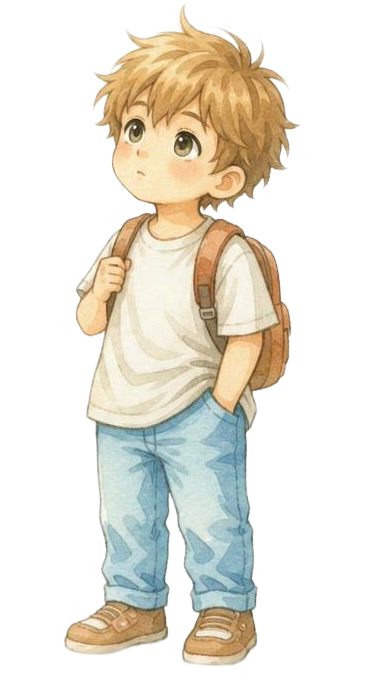
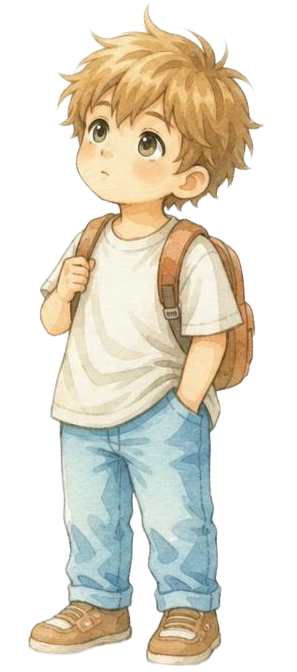
Fonts

diff --git a/style.css b/style.css
@@ -14,6 +14,56 @@
    ===================================================================== */
 
 /* ---------------------------------------------------------------------
+   0. FONTS (self-hosted — see index.html <head> for the reasoning)
+   Dela Gothic One ships one real weight (400) — do not request 700/800/900
+   against it anywhere; the browser will synthetic-bold a single-weight
+   face and it looks blobby/wrong on an already-heavy display font. Every
+   heading rule below has been set to font-weight: 400 for this reason.
+--------------------------------------------------------------------- */
+@font-face {
+  font-family: 'Dela Gothic One';
+  src: url('assets/fonts/dela-gothic-one-cyrillic-400-normal.woff2') format('woff2');
+  font-weight: 400;
+  font-style: normal;
+  font-display: swap;
+}
+@font-face {
+  font-family: 'Nunito Sans';
+  src: url('assets/fonts/nunito-sans-cyrillic-300-normal.woff2') format('woff2');
+  font-weight: 300;
+  font-style: normal;
+  font-display: swap;
+}
+@font-face {
+  font-family: 'Nunito Sans';
+  src: url('assets/fonts/nunito-sans-cyrillic-400-normal.woff2') format('woff2');
+  font-weight: 400;
+  font-style: normal;
+  font-display: swap;
+}
+@font-face {
+  font-family: 'Nunito Sans';
+  src: url('assets/fonts/nunito-sans-cyrillic-600-normal.woff2') format('woff2');
+  font-weight: 600;
+  font-style: normal;
+  font-display: swap;
+}
+@font-face {
+  font-family: 'Nunito Sans';
+  src: url('assets/fonts/nunito-sans-cyrillic-700-normal.woff2') format('woff2');
+  font-weight: 700;
+  font-style: normal;
+  font-display: swap;
+}
+@font-face {
+  font-family: 'Nunito Sans';
+  src: url('assets/fonts/nunito-sans-cyrillic-800-normal.woff2') format('woff2');
+  font-weight: 800;
+  font-style: normal;
+  font-display: swap;
+}
+
+/* ---------------------------------------------------------------------
    1. DESIGN TOKENS
 --------------------------------------------------------------------- */
 :root {
@@ -60,7 +110,7 @@
     section's rules assumed — see .how-it-works below. */
 
   /* --- Type --- */
-  --font-display: 'Baloo 2', system-ui, sans-serif;  /* rounded, playful — headlines */
+  --font-display: 'Dela Gothic One', system-ui, sans-serif;  /* thick, chunky poster face — headlines. Single weight (400) only. */
   --font-body: 'Nunito Sans', system-ui, sans-serif; /* warm, friendly — body/UI text */
 
   /* --- Type scale (fluid, mobile-first) --- */
@@ -117,12 +167,15 @@ body {
   background: var(--color-surface-white);
   color: var(--color-text-dark);
   font-family: var(--font-body);
+  font-weight: 300; /* light body text, per typography direction — labels,
+    citations, and buttons override this explicitly where they need more
+    weight; this is the paragraph-text default. */
   line-height: 1.5;
   -webkit-font-smoothing: antialiased;
   overflow-x: hidden; /* clouds intentionally travel toward/past the viewport edge */
 }
 
-h1, h2, h3 { font-family: var(--font-display); margin: 0; }
+h1, h2, h3 { font-family: var(--font-display); font-weight: 400; margin: 0; }
 p { margin: 0; }
 ul { list-style: none; margin: 0; padding: 0; }
 button { font-family: inherit; }
@@ -282,7 +335,7 @@ input:focus-visible {
 
 .hero__title {
   font-size: var(--font-size-h1);
-  font-weight: 800;
+  font-weight: 400; /* Dela Gothic One has one real weight */
   line-height: 1.05;
   color: var(--color-hero-text);
 }
@@ -345,7 +398,7 @@ input:focus-visible {
   padding: 1rem 1.5rem;
   font-family: var(--font-display);
   font-size: 1rem;
-  font-weight: 700;
+  font-weight: 400; /* Dela Gothic One has one real weight */
   color: var(--color-text-dark);
   background: var(--color-neda);
   border: none;
@@ -574,7 +627,7 @@ input:focus-visible {
 
 .brave-card__name {
   font-family: var(--font-display);
-  font-weight: 700;
+  font-weight: 400; /* Dela Gothic One has one real weight */
   font-size: 1rem;
   text-transform: uppercase;
   letter-spacing: 0.03em;
@@ -761,14 +814,14 @@ input:focus-visible {
 
 .problem__heading {
   font-size: var(--font-size-h2);
-  font-weight: 700;
+  font-weight: 400; /* Dela Gothic One has one real weight */
 }
 
 /* Accent-colored, oversized quotation marks — turns the heading into a
    visible pull-quote rather than reading as an unmarked headline. */
 .problem__quote-mark {
   font-size: 1.4em;
-  font-weight: 800;
+  font-weight: 400; /* inherits Dela Gothic One from parent h2 — one real weight */
   color: var(--color-neda);
   line-height: 0;
   vertical-align: -0.08em;
@@ -804,7 +857,7 @@ input:focus-visible {
 
 .teaches__heading {
   font-size: var(--font-size-h2);
-  font-weight: 700;
+  font-weight: 400; /* Dela Gothic One has one real weight */
   text-align: center;
 }
 
@@ -972,7 +1025,7 @@ input:focus-visible {
   padding: 1rem 2rem;
   font-family: var(--font-display);
   font-size: 1.05rem;
-  font-weight: 700;
+  font-weight: 400; /* Dela Gothic One has one real weight */
   color: var(--color-text-dark);
   background: var(--color-neda);
   border-radius: var(--radius-input);
@@ -1002,7 +1055,7 @@ input:focus-visible {
 
 .how-it-works__heading {
   font-size: var(--font-size-h2);
-  font-weight: 700;
+  font-weight: 400; /* Dela Gothic One has one real weight */
   text-align: center;
   margin-bottom: var(--space-4);
 }
@@ -1039,7 +1092,7 @@ input:focus-visible {
 .how-it-works__number {
   font-family: var(--font-display);
   font-size: 1.5rem;
-  font-weight: 800;
+  font-weight: 400; /* Dela Gothic One has one real weight */
   width: 2.5rem;
   height: 2.5rem;
   display: flex;
@@ -1066,7 +1119,7 @@ input:focus-visible {
   margin: 0;
   font-family: var(--font-display);
   font-size: 1.05rem;
-  font-weight: 800;
+  font-weight: 400; /* Dela Gothic One has one real weight */
   text-transform: uppercase;
   letter-spacing: 0.02em;
   color: var(--color-zaki);
@@ -1191,7 +1244,7 @@ input:focus-visible {
 
 .testimonials__heading {
   font-size: var(--font-size-h2);
-  font-weight: 700;
+  font-weight: 400; /* Dela Gothic One has one real weight */
   text-align: center;
 }
 
@@ -1243,7 +1296,7 @@ input:focus-visible {
   font-family: var(--font-display);
   font-size: 5rem;
   line-height: 0.6;
-  font-weight: 700;
+  font-weight: 400; /* Dela Gothic One has one real weight */
   color: var(--slide-accent, var(--color-vesta));
   display: block;
 }
@@ -1252,7 +1305,13 @@ input:focus-visible {
 
 .testimonials__quote p {
   margin: 0;
-  font-family: var(--font-display);
+  font-family: var(--font-body); /* deviation from a literal display-font
+    swap — Dela Gothic One is a single-weight poster face; a full sentence
+    set in it at h2 size reads as shouty, not warm. Body font at 600
+    keeps the quote visually prominent while staying readable. Flagging
+    since this wasn't explicitly requested — happy to revert if you'd
+    rather the whole quote stay in the display face. */
+  font-weight: 600;
   font-size: var(--font-size-h2);
   line-height: 1.35;
   color: var(--color-text-dark);
@@ -1356,7 +1415,7 @@ input:focus-visible {
 
 .desired-state__heading {
   font-size: var(--font-size-h2);
-  font-weight: 700;
+  font-weight: 400; /* Dela Gothic One has one real weight */
   text-align: center;
 }
 

diff --git a/index.html b/index.html
@@ -11,7 +11,16 @@
        design system brief. -->
   <link rel="preconnect" href="https://fonts.googleapis.com" />
   <link rel="preconnect" href="https://fonts.gstatic.com" crossorigin />
-  <link href="https://fonts.googleapis.com/css2?family=Baloo+2:wght@500;600;700;800&family=Nunito+Sans:wght@400;600;700;800&display=swap" rel="stylesheet" />
+  <!-- Fonts are self-hosted from /assets/fonts (see @font-face rules at the
+       top of style.css) rather than loaded from Google Fonts' CDN.
+       Meaningful reason for this one: this is an EU/Bulgaria-facing site
+       collecting emails, and loading fonts.gstatic.com directly sends
+       every visitor's IP to Google before they've consented to
+       anything — this is the exact pattern a 2022 Munich court ruling
+       found to violate GDPR (no consent basis for that third-party
+       transfer). Self-hosting sidesteps the question entirely, plus
+       drops two DNS/TLS round-trips. The preconnect tags above are now
+       unused leftovers — harmless if left in, but fine to delete. -->
 
   <link rel="stylesheet" href="style.css" />
 </head>

diff --git a/SDD.md b/SDD.md
@@ -148,7 +148,13 @@ H2: "Записването е отворено". Same form as the hero section 
 
 ### Design System
 
-- Fonts: Baloo 2 (display/headings) + Nunito Sans (body/UI) — not specified in the original brief, chosen to fit "bright, colorful, kids-friendly."
+- **Typography — Dela Gothic One (display/headings) + Nunito Sans (body/UI).** Not in the original brief; chosen after a dedicated typography pass (see below), replacing the initial Baloo 2 choice.
+  - **Fonts are self-hosted** from `/assets/fonts` via `@font-face` in `style.css`, not loaded from Google Fonts' CDN. Deliberate choice, not a default: this is an EU/Bulgaria-facing site collecting emails, and loading `fonts.gstatic.com` directly sends every visitor's IP to Google before any consent — the exact pattern a 2022 Munich court ruling found to violate GDPR. Self-hosting sidesteps it entirely and drops two DNS/TLS round-trips as a bonus. `index.html`'s `<head>` still has the (now-unused) `preconnect` tags for Google Fonts — harmless, safe to delete later.
+  - **Baloo 2 was dropped for a real reason, not just taste**: verified directly (pulled the actual font package, not just its Google Fonts description page) that Baloo 2 ships zero Cyrillic glyphs — only Devanagari, Latin, Latin Extended, and Vietnamese. Every Bulgarian heading was silently falling back to the browser's system font this whole time. Lesson applied going forward: check actual subset/glyph coverage in the font files themselves before adopting any typeface for this project, not just a description page — a font can be "on Google Fonts" and still not cover the language you need.
+  - **Dela Gothic One has exactly one real weight (400, static, not variable).** Every heading/display-font rule in `style.css` is pinned to `font-weight: 400` for this reason — requesting 700/800/900 against a single-weight face makes the browser synthetic-bold it, which looks blobby on an already-heavy display font. If you ever want a lighter or heavier display option later, that requires a different typeface, not a different weight of this one.
+  - **One deviation from a literal 1:1 swap, flagged for your review**: the Testimonials quote sentence itself (`.testimonials__quote p`) is set in Nunito Sans (weight 600), not Dela Gothic One, even though it's inside an otherwise Dela-Gothic-One-only section. Reasoning: Dela Gothic One is a poster/headline face meant for a few words at a time; a full sentence set in it at `--font-size-h2` read as shouty rather than warm when tested. The giant opening/closing quotation-mark glyphs around it stayed in Dela Gothic One (400) since those are just 1–2 characters, which is exactly what the face is good at. Happy to revert this specific choice if you'd rather the whole quote block match.
+  - Body text default weight is now 300 (light), per your original "thick childlike titles / light non-serif paragraphs" direction — explicit `font-weight` overrides (buttons, labels, citations) are unaffected since they set their own weight already.
+  - **Cyrillic-quality caveat, for the record**: a specialist Cyrillic type-review source (type.today) flags Dela Gothic One's Cyrillic extension as technically complete but lower design quality than its Latin set — likely subtle stroke/proportion inconsistencies a trained eye would catch. Nothing looked broken in our own rendered tests (see the headline/pairing screenshots from this pass), so treating this as a "know before you scale up" note rather than a blocker.
 - Brand colors: Заки `#725598`, Вихрен `#F68044`, Неда `#FDD43B`, Веста `#278C5D`, Мишо `#E5E1D6`, Buddy/joker `#2FB6B0` (turquoise, new — not one of the original 5 Bravies). Deep-toned icon-only variants: burnt orange `#A8501A`, deep red `#7A2020`, deep teal `#0E4749` (used for colorful icon glyphs where plain white/dark wouldn't do).
 - Section backgrounds, in the spec's alternation order: Hero `#5080BF` → Bravies white → Problem `#725598` (Заки purple) → What It Teaches white → How It Works `#E5E1D6` (Мишо beige) → Testimonials white (`#F8FAFC`) → Desired State `#F68044` (Вихрен orange, **proposed, not locked** — the only warm brand color not yet used as a full section background; flagging for confirmation) → **FAQ / Wait-list Signup: still undecided**, continue the alternation.
 - Responsiveness: mobile (375px), tablet (768px portrait + landscape), desktop (1440px). Portrait vs. landscape tablet is distinguished via `orientation` media queries where the layout actually differs (Bravies section).
